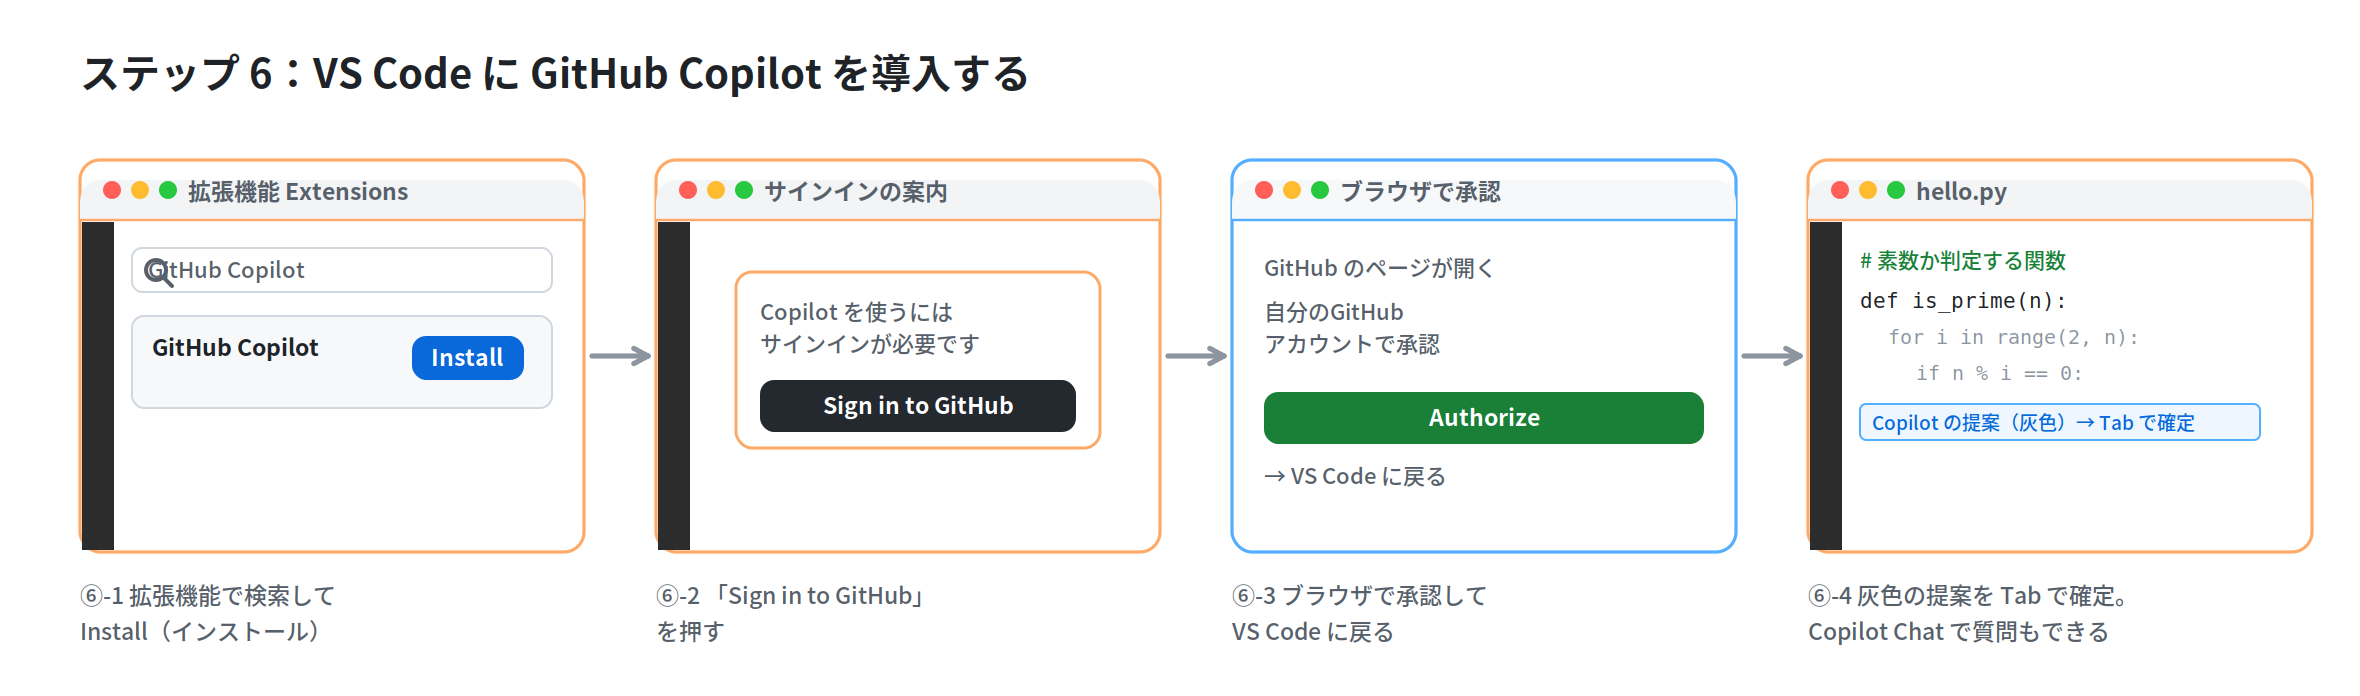
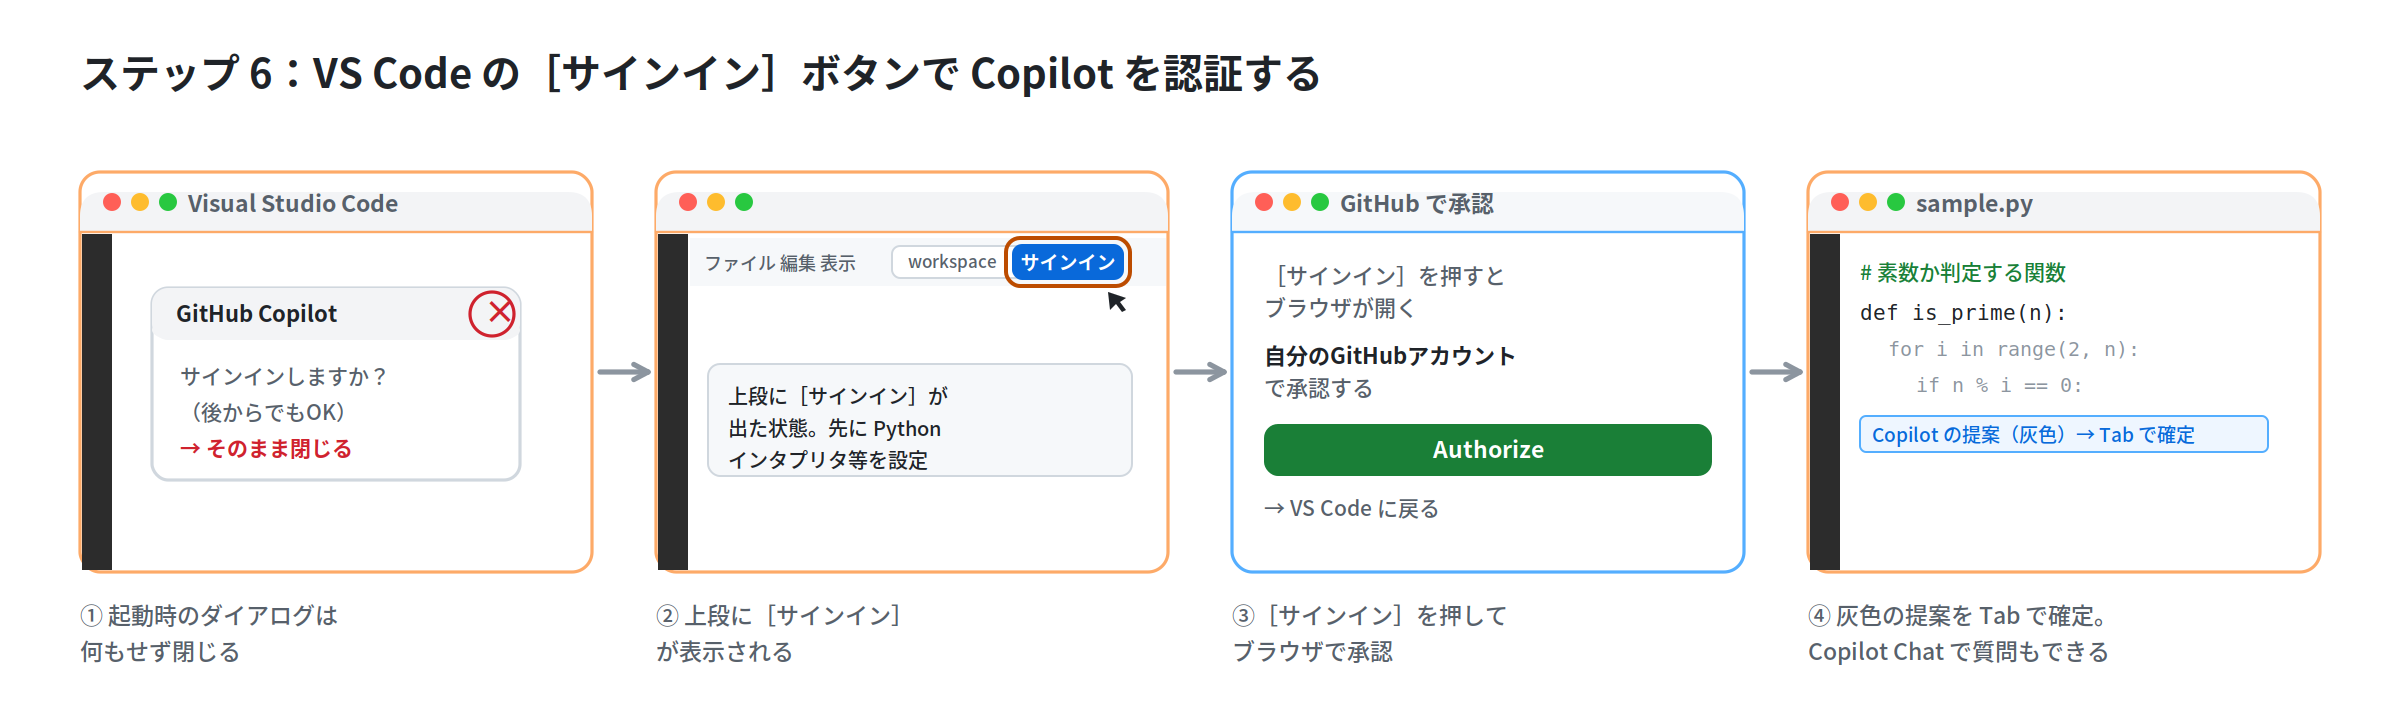
GitHub設定ガイド
データ修正

diff --git a/GitHub設定ガイド（一般向け）.md b/GitHub設定ガイド（一般向け）.md
@@ -24,7 +24,7 @@ flowchart TD
     A2 --> B3["③ Google Authenticator導入<br/>スマホにアプリ"]
     B3 --> B4["④ GitHubで2FA設定<br/>QRコードを読み取る"]
     B4 --> B5["⑤ 回復コード保存<br/>16個の番号を保管"]
-    B5 --> D6["⑥ VS CodeにCopilot導入<br/>拡張機能でサインイン"]
+    B5 --> D6["⑥ VS CodeでCopilotにサインイン<br/>［サインイン］ボタンで認証"]
     D6 --> G(["🎉 完了：AIと一緒にコードが書ける"])
 
     classDef acc fill:#ddf4ff,stroke:#0969da,color:#1f2328;
@@ -37,7 +37,7 @@ flowchart TD
     class G goal;
 ```
 
-![GitHub 初期設定 全体の流れ（6ステップ）](img/001_overall.png)
+![GitHub 初期設定 全体の流れ（6ステップ）](img/01_overall.png)
 
 ---
 
@@ -82,7 +82,7 @@ flowchart LR
 
 ### ✅ ステップ 1〜2 の画面の流れ（まとめ）
 
-![ステップ1〜2 アカウント作成からメール認証までの画面遷移図](img/002_account.png)
+![ステップ1〜2 アカウント作成からメール認証までの画面遷移図](img/02_account.png)
 
 ### つまずいたら
 
@@ -157,7 +157,7 @@ flowchart LR
 
 ### ✅ ステップ 3〜5 の画面の流れ（まとめ）
 
-![ステップ3〜5 Authenticator導入から2FA設定・回復コード保存までの画面遷移図](img/003_twofa.png)
+![ステップ3〜5 Authenticator導入から2FA設定・回復コード保存までの画面遷移図](img/03_twofa.png)
 
 ### 保管のルール（とても重要）
 
@@ -168,21 +168,24 @@ flowchart LR
 
 ---
 
-## ステップ 6：VS Code に Copilot を導入する
+## ステップ 6：VS Code で Copilot にサインインする
 
 **目的：** ふだん使うエディタ **VS Code** で、AI（GitHub Copilot）のコード補助を使えるようにします。
 
+> **このリポジトリの自動セットアップでインストールした VS Code には、最初から GitHub Copilot の拡張機能が入っています。** そのため、拡張機能を自分でインストールする必要はありません。最後に「サインイン（認証）」だけ行えば使えるようになります。
+
 ```mermaid
 flowchart LR
-    C1["拡張機能で<br/>GitHub Copilot を検索<br/>→ Install"] --> C2["Sign in to GitHub<br/>を押す"]
-    C2 --> C3["ブラウザで Authorize<br/>（自分のアカウントで）"]
-    C3 --> C4["灰色の提案を Tab で確定<br/>Chat で質問もできる"]
+    C1["起動時の<br/>サインイン案内は<br/>そのまま閉じる"] --> C2["上段に［サインイン］<br/>ボタンが出る"]
+    C2 --> C3["先にPythonインタプリタ<br/>などの設定を済ませる"]
+    C3 --> C4["［サインイン］を押す → ブラウザで<br/>Authorize（自分のアカウントで）"]
+    C4 --> C5["灰色の提案を Tab で確定<br/>Chat で質問もできる"]
     classDef d fill:#ffe7d1,stroke:#bc4c00,color:#1f2328;
-    class C1,C2,C3,C4 d;
+    class C1,C2,C3,C4,C5 d;
 ```
 
 > **Copilot の料金について（はじめに知っておくこと）**
-> Copilot には主に2つの使い方があります。どちらも下の手順（インストール → サインイン → 承認）は同じです。
+> Copilot には主に2つの使い方があります。どちらもサインインすれば使えるようになります。
 > - **Copilot Free**：誰でも使える**無料枠**。ただし、コード補完やチャットの**回数などに制限**があります。まず試すならこれでOK。
 > - **Copilot Pro**：**有料**（2026年時点でおよそ月10ドル。無料トライアルあり）。制限がゆるく、より高性能なモデルも使えます。
 >
@@ -190,12 +193,13 @@ flowchart LR
 
 ### 手順
 
-1. VS Code を開き、左側の **拡張機能（Extensions）** アイコンを開きます。
-2. 検索欄に **「GitHub Copilot」** と入力して、**Install（インストール）** します。
-3. インストール後、**「Sign in to GitHub」**（GitHubにサインイン）を促す案内が出ます。これを押します。
-4. ブラウザが開くので、**ステップ1で作った自分の GitHub アカウント**で **Authorize（承認）** します。
-   - ⚠ **複数のアカウントを持っている場合、サインインするアカウントを間違えると Copilot がうまく有効になりません。** どのアカウントでサインインしているか確認しましょう。
-5. VS Code に戻ります。これで準備完了です。
+1. VS Code を**初めて起動**すると、**Copilot のサインインを促すダイアログ**が表示されます。ここでは **何もせずにそのまま閉じます**（後からサインインできます）。
+2. ダイアログを閉じると、VS Code の**画面上段に［サインイン］ボタン**（GitHub Copilot の認証ボタン）が表示された状態になります。
+3. ここで先に、**Python インタプリタの設定**など、ほかの準備を済ませておきます。
+4. 準備ができたら、画面上段の **［サインイン］ボタンを押します**。
+5. ブラウザが開くので、**ステップ1で作った自分の GitHub アカウント**で **Authorize（承認）** します。
+   - ⚠ **複数のアカウントを持っている場合、承認するアカウントを間違えると Copilot がうまく有効になりません。** どのアカウントか確認しましょう。
+6. VS Code に戻ります。これで準備完了です。
 
 ### 動作確認
 
@@ -209,7 +213,7 @@ flowchart LR
 
 ### ✅ ステップ 6 の画面の流れ（まとめ）
 
-![ステップ6 VS CodeにGitHub Copilotを導入する画面遷移図](img/004_copilot.png)
+![ステップ6 VS Codeの［サインイン］ボタンでCopilotを認証する画面遷移図](img/04_copilot.png)
 
 ---
 
@@ -220,7 +224,7 @@ flowchart LR
 | 確認メールが来ない | 迷惑メール／アドレス間違い | 迷惑メールフォルダ確認・数分待つ・アドレス再確認 |
 | 2FA のコードが合わない | 30秒で番号が変わる／スマホの時刻ずれ | 新しい番号を入力・スマホの時刻を自動設定に |
 | スマホを機種変更した | 認証アプリが移っていない | **回復コード**でログイン → 2FAを再設定 |
-| Copilot の候補が出ない | サインインしていない／拡張機能が無効／アカウント違い | サインイン中のアカウントと拡張機能の状態を確認 |
+| Copilot の候補が出ない | サインインしていない／アカウント違い | 画面上段の［サインイン］状態と、サインイン中のアカウントを確認 |
 | Copilot の回数制限に達した | 無料枠（Copilot Free）の上限 | しばらく待つ・Copilot Pro を検討 |
 
 ---
@@ -246,7 +250,7 @@ flowchart LR
 - [ ] スマホに Google Authenticator を入れた
 - [ ] GitHub で 2FA を有効にした
 - [ ] 回復コード16個を安全な場所に保存した
-- [ ] VS Code に Copilot を入れ、自分のアカウントでサインインした
+- [ ] VS Code で Copilot にサインインした（自分のアカウント）
 - [ ] コメントから灰色の候補が出ることを確認した
 
 > お疲れさまでした！ ここまで終われば、AI と一緒にコードを書く準備は完了です。

diff --git a/GitHub設定ガイド（学生・教師用）.md b/GitHub設定ガイド（学生・教師用）.md
@@ -26,7 +26,7 @@ flowchart TD
     B4 --> B5["⑤ 回復コード保存<br/>16個の番号を保管"]
     B5 --> C6["⑥ GitHub Education申請<br/>学生だと証明"]
     C6 --> C7["⑦ 承認待ち<br/>メール通知を確認"]
-    C7 --> D8["⑧ VS CodeにCopilot導入<br/>拡張機能でサインイン"]
+    C7 --> D8["⑧ VS CodeでCopilotにサインイン<br/>［サインイン］ボタンで認証"]
     D8 --> G(["🎉 完了：AIと一緒にコードが書ける"])
 
     classDef acc fill:#ddf4ff,stroke:#0969da,color:#1f2328;
@@ -227,27 +227,31 @@ flowchart LR
 
 ---
 
-## ステップ 8：VS Code に Copilot を導入する
+## ステップ 8：VS Code で Copilot にサインインする
 
 **目的：** ふだん使うエディタ **VS Code** で、AI（GitHub Copilot）のコード補助を使えるようにします。
 
+> **このリポジトリの自動セットアップでインストールした VS Code には、最初から GitHub Copilot の拡張機能が入っています。** そのため、拡張機能を自分でインストールする必要はありません。最後に「サインイン（認証）」だけ行えば使えるようになります。
+
 ```mermaid
 flowchart LR
-    C1["拡張機能で<br/>GitHub Copilot を検索<br/>→ Install"] --> C2["Sign in to GitHub<br/>を押す"]
-    C2 --> C3["ブラウザで Authorize<br/>（学割アカウントで）"]
-    C3 --> C4["灰色の提案を Tab で確定<br/>Chat で質問もできる"]
+    C1["起動時の<br/>サインイン案内は<br/>そのまま閉じる"] --> C2["上段に［サインイン］<br/>ボタンが出る"]
+    C2 --> C3["先にPythonインタプリタ<br/>などの設定を済ませる"]
+    C3 --> C4["［サインイン］を押す → ブラウザで<br/>Authorize（学割アカウントで）"]
+    C4 --> C5["灰色の提案を Tab で確定<br/>Chat で質問もできる"]
     classDef d fill:#ffe7d1,stroke:#bc4c00,color:#1f2328;
-    class C1,C2,C3,C4 d;
+    class C1,C2,C3,C4,C5 d;
 ```
 
 ### 手順
 
-1. VS Code を開き、左側の **拡張機能（Extensions）** アイコンを開きます。
-2. 検索欄に **「GitHub Copilot」** と入力して、**Install（インストール）** します。
-3. インストール後、**「Sign in to GitHub」**（GitHubにサインイン）を促す案内が出ます。これを押します。
-4. ブラウザが開くので、**ステップ6で学割を取ったのと同じ GitHub アカウント**で **Authorize（承認）** します。
-   - ⚠ **別のアカウントでサインインすると Copilot が有効になりません。** アカウント違いは一番よくある失敗です。
-5. VS Code に戻ります。これで準備完了です。
+1. VS Code を**初めて起動**すると、**Copilot のサインインを促すダイアログ**が表示されます。ここでは **何もせずにそのまま閉じます**（後からサインインできます）。
+2. ダイアログを閉じると、VS Code の**画面上段に［サインイン］ボタン**（GitHub Copilot の認証ボタン）が表示された状態になります。
+3. ここで先に、**Python インタプリタの設定**など、ほかの準備を済ませておきます。
+4. 準備ができたら、画面上段の **［サインイン］ボタンを押します**。
+5. ブラウザが開くので、**ステップ6で学割を取ったのと同じ GitHub アカウント**で **Authorize（承認）** します。
+   - ⚠ **別のアカウントで承認すると Copilot がうまく有効になりません。** 同じアカウントか確認しましょう。
+6. VS Code に戻ります。これで準備完了です。
 
 ### 動作確認
 
@@ -261,7 +265,7 @@ flowchart LR
 
 ### ✅ ステップ 8 の画面の流れ（まとめ）
 
-![ステップ8 VS CodeにGitHub Copilotを導入する画面遷移図](img/05_copilot.png)
+![ステップ8 VS Codeの［サインイン］ボタンでCopilotを認証する画面遷移図](img/05_copilot.png)
 
 ---
 
@@ -274,7 +278,7 @@ flowchart LR
 | スマホを機種変更した | 認証アプリが移っていない | **回復コード**でログイン → 2FAを再設定 |
 | 学割が承認されない | 証明が不十分／学校メール不可 | 氏名・学校・日付が写った書類をアップロード |
 | 学割は通ったのに Copilot が使えない | 反映待ち／VS Codeのアカウント違い | 最大72時間待つ・**同じアカウント**でサインインし直す |
-| Copilot の候補が出ない | サインインしていない／拡張機能が無効 | 拡張機能の状態とサインイン中のアカウントを確認 |
+| Copilot の候補が出ない | サインインしていない／アカウント違い | 画面上段の［サインイン］状態と、サインイン中のアカウントを確認 |
 
 ---
 
@@ -302,7 +306,7 @@ flowchart LR
 - [ ] 回復コード16個を安全な場所に保存した
 - [ ] GitHub Education（学割）を申請した
 - [ ] 承認メールが届いた／特典が反映された
-- [ ] VS Code に Copilot を入れ、同じアカウントでサインインした
+- [ ] VS Code で Copilot にサインインした（学割と同じアカウント）
 - [ ] コメントから灰色の候補が出ることを確認した
 
 > お疲れさまでした！ ここまで終われば、AI と一緒にコードを書く準備は完了です。
